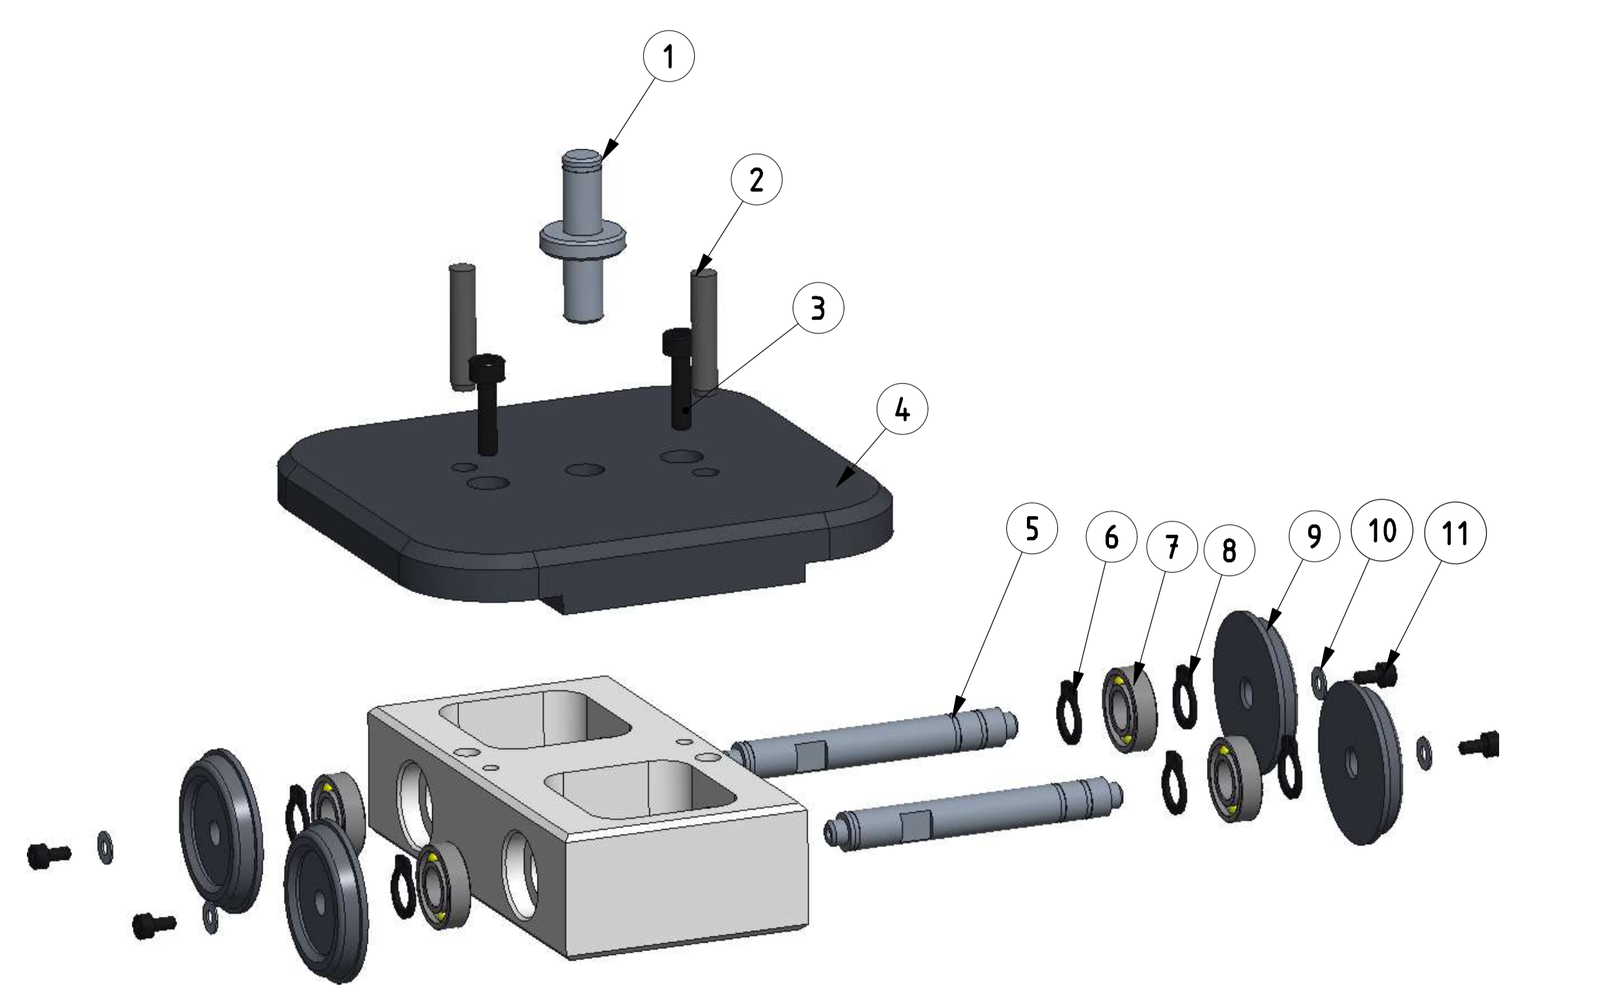
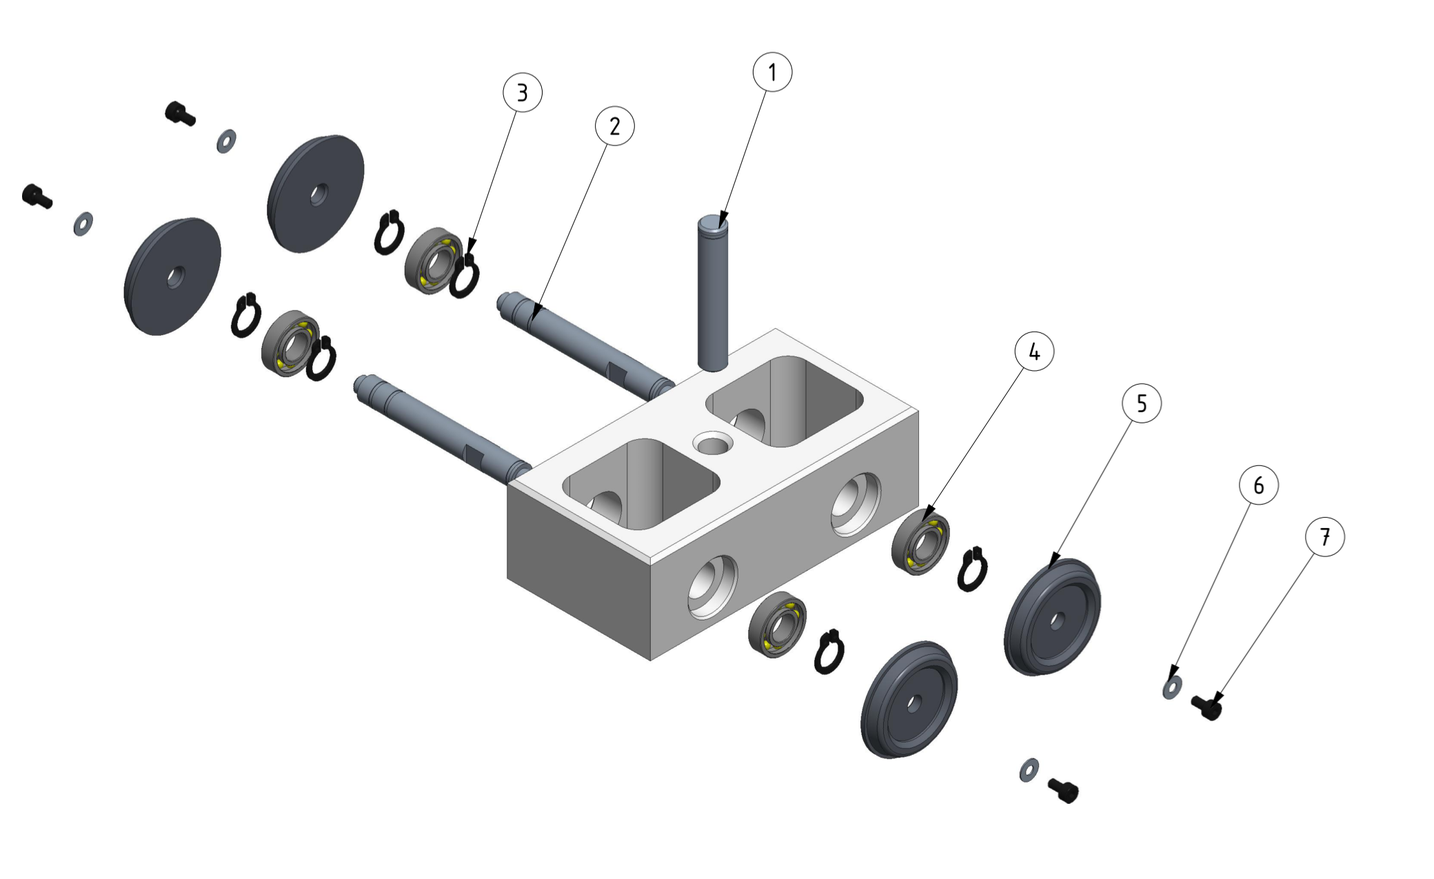
Kapitel Fahrwerk erstellt

diff --git a/docu/sections/03_Loesungskonzepte/Fahrwerk.tex b/docu/sections/03_Loesungskonzepte/Fahrwerk.tex
@@ -1,9 +1,15 @@
 \documentclass[../../main.tex]{subfiles}
 \graphicspath{{images/Maschinentechnik/}{../../images/Maschinentechnik/}}
 
+\lstset{basicstyle=\small,
+      showstringspaces=false,
+      commentstyle=\color{black},
+      keywordstyle=\color{blue}
+    }
+
 \begin{document}
     \subsection{Konzeptbeschreibung}
-    Die Lokomotive in Abbildung \ref{fig:bg_lokomotive} in die drei Unterbaugruppen Antriebswagen (Position 1), Führungswagen (Position 2) und Ladungsträger (Position 3) unterteilt. Der Antriebswagen enthält alle notwendigen Komponenten, um die Lokomotive zu beschleunigen und wieder abzubremsen. Zusätzlich sind die Kameras für die Spur- und Signalerkennung an ihm angebracht. Der Führungswagen hingegen dient lediglich als Abstützung für den Ladungsträger. Er bietet aber zusätzlichen Bauraum für elektronische Komponenten.\\
+    Die Lokomotive in Abbildung \ref{fig:bg_lokomotive} (siehe Tabelle \ref{tab:bg_lokomotive}) in die drei Unterbaugruppen Antriebswagen (Position 1), Führungswagen (Position 2) und Ladungsträger (Position 3) unterteilt. Der Antriebswagen enthält alle notwendigen Komponenten, um die Lokomotive zu beschleunigen und wieder abzubremsen. Zusätzlich sind die Kameras für die Spur- und Signalerkennung an ihm angebracht. Der Führungswagen hingegen dient lediglich als Abstützung für den Ladungsträger. Er bietet aber zusätzlichen Bauraum für elektronische Komponenten.\\
 
     \begin{figure}[H] %Lokomotive mit Positionsnummern
         \centering
@@ -23,13 +29,15 @@
         \hline
         Position 3          & Ladungsträger\\
         \hline
+        Position 4          & Transportgut (Würfel)\\
+        \hline
         \end{tabular}
         
         \caption{Positionsnummern der Lokomotive mit Bezeichnungen}
-        \label{tab:com_tiny_pi}
-        \end{table}
-    
-    In der Querschnittsdarstellung in Abbildung \ref{fig:schnitt_lokomotive} die Lagerungen zwischen dem Ladungsträger und dem Antriebswagen beziehungsweise dem Führungswagen sowie die Antriebseinheit besser sichtbar. Der Aufbau der Unterbaugruppen wird in den nächsten Abschnitten vorgestellt.
+        \label{tab:bg_lokomotive}
+    \end{table}
+
+    In der Querschnittsdarstellung in Abbildung \ref{fig:schnitt_lokomotive} ist die Lagerungen zwischen dem Ladungsträger und dem Antriebswagen beziehungsweise dem Führungswagen besser sichtbar. Ebenfalls sieht man gut, wie der Antriebswagen mit Zahnriemen angetrieben wird. Der Aufbau der Unterbaugruppen wird in den nächsten Abschnitten vorgestellt.\\
    
     \begin{figure}[H] %Lokomotive im Schnitt
         \centering
@@ -40,14 +48,14 @@
     \newpage
 
     \subsubsection{Antriebswagen}
-    Der Grundaufbau der beiden Wägen ist derselbe, mit dem Unterschied, dass der Antriebswagen durch einen Motor angetrieben wird. Der Grundwagen beziehungsweise der Führungswagen in Abbildung besteht aus einem Rahmen und einer Platte, welche miteinander verstiftet (Position 2) und verschraubt (Position 3) sind. Im Rahmen werden die beiden Achsen jeweils mit einem Los- und einem Festlager lagert. Die Achsen sind an beiden Enden mit einem Gewinde versehen, damit die Räder bei Bedarf schnell und einfach gewechselt werden können, ohne dass der ganze Wagen auseinander genommen werden muss. Die Anfräsfläche auf der Welle (Position 5) dient für das bessere Befestigen der Räder durch einen Gabelschlüssel.
+    Der Grundaufbau der beiden Wägen ist derselbe, mit dem Unterschied, dass der Antriebswagen durch einen Motor angetrieben wird. Der Grundwagen beziehungsweise der Führungswagen in Abbildung \ref{fig:expl_fuehrungswagen} (siehe Tabelle \ref{tab:expl_fuehrungswagen}) besteht aus einem Rahmen und einer Platte, welche miteinander verstiftet (Position 2) und verschraubt (Position 3) sind. Im Rahmen werden die beiden Achsen jeweils mit einem Los- (Position 7) und einem Festlager (Position 8) lagert und mit Sicherungsringen (Position 6) gesichert. Die Achsen sind an beiden Enden mit einem Gewinde versehen, damit die Räder bei Bedarf schnell und einfach gewechselt werden können, ohne dass der ganze Wagen auseinander genommen werden muss. Die Anfräsfläche auf der Welle (Position 5) dient für das bessere Befestigen der Räder mit einen Gabelschlüssel.\\
 
      \begin{figure}[H] %Führungswagen
         \centering
-        \includegraphics[width=0.9\textwidth]{Fuehrungswagen.png}
+        \includegraphics[width=0.9\textwidth]{fuehrungswagen.png}
         \caption{Explosionsdarstellung Führungswagen}
         \label{fig:expl_fuehrungswagen}
-    \end{figure}   
+    \end{figure}
 
     \begin{table}[H] \centering
         \begin{tabular}{|l|l|}
@@ -56,39 +64,34 @@
         \hline
         Position 1          & Drehachse Wagen-Ladungsträger\\
          \hline
-        Position 2          & Stife für das Verstiften von Rahmen und Platte\\
+        Position 2          & Achsen mit Gewinden an beiden Enden und Anfräsfläche für Gabelschlüssel\\
+         \hline
+        Position 3          & Rillenkugellager (Loslager)\\
         \hline
-        Position 3          & Zylinderschrauben für das Befestigen der Platte am Rahmen\\
+        Position 4          & Eingepresstes Rillenkugellager (Festlager)\\
+        \hline       
+        Position 5          & Sicherungsring für Rillenkugellager\\
         \hline
-        Position 4          & Platte\\
+        Position 6          & Rad\\
         \hline
-        Position 5          & Achsen mit Gewinden an beiden Enden und Anfräsfläche für Gabelschlüssel\\
+        Position 7         & Unterlagscheibe\\
         \hline
-        Position 6          & Sicherungsring für Rillenkugellager\\
-        \hline
-        Position 7          & Rillenkugellager (Loslager)\\
-        \hline
-        Position 8          & Eingepresstes Rillenkugellager (Festlager)\\
-        \hline
-        Position 9          & Rad\\
-        \hline
-        Position 10         & Unterlagscheibe\\
-        \hline
-        Position 11         & Zylinderschraube\\
+        Position 8         & Zylinderschraube\\
         \hline
         \end{tabular}
         
-        \caption{Kommunikation Frames: Tiny $\Rightarrow$ Pi}
-        \label{tab:com_tiny_pi}
+        \caption{Explosionsdarstellung Führungswagen}
+        \label{tab:expl_fuehrungswagen}
         \end{table}
     \newpage
-    Der Antriebswagen in Abbildung ist grundsätzlich gleich aufgebaut wie der Führungswagen, jedoch ist der Rahmen aufgrund des Riemenantriebs etwas anders Aufgebaut. Die Platte, welche auf dem Rahmen angebracht ist, wurde für die Kameras für die Signal- und Spurerkennung grösser dimensioniert. Die Kamera für die Spurerkennung wird einstellbar befestigt, damit bei der Testphase des Prototyps Optimierungen vorgenommen werden können. Die Stromübetrag von der Shiene auf die Lokomotive erfolgt über vier Schleifkontakte. Davon sind jeweils zwei ein einem Wagen zwischen den Rädern angebracht.
+    
+    Der Antriebswagen in Abbildung \ref{fig:antriebswagen} (siehe Tabelle \ref{tab:expl_antriebswagen}) wie bereits erwähnt grundsätzlich gleich aufgebaut wie der Führungswagen, jedoch ist der Rahmen aufgrund des Riemenantriebs H-Förmig aufgebaut. Das Ziel dieser Konstruktion ist es hauptsächlich den Riemen, falls nötig, schnell wechselbar zu montieren. Durch die H-Form können die Achsen und die Räder für die Riemenmontage am Rahmen montiert gelassen werden. Die Platte, welche am Rahmen angebracht ist, ist für die Kameras für die Signal- und Spurerkennung grösser dimensioniert. Die Kamera für die Spurerkennung wird einstellbar befestigt, damit bei der Testphase des Prototyps Optimierungen des Winkels vorgenommen werden können. Der Stromübetrag von der Schiene auf die Lokomotive erfolgt über vier Schleifkontakte, welche als Einkaufsteile von Lieferanten bezogen werden. Davon sind pro Wagen zwei und jeweils zwischen den Rädern angebracht.\\
 
     \begin{figure}[H] %Antriebswagen
         \centering
-        \includegraphics[width=0.9\textwidth]{Fuehrungswagen.png}
+        \includegraphics[width=0.9\textwidth]{antriebswagen.png}
         \caption{Baugruppe Antriebswagen}
-        \label{fig:Antriebswagen}
+        \label{fig:antriebswagen}
     \end{figure} 
 
     \begin{table}[H] \centering
@@ -100,18 +103,22 @@
          \hline
         Position 2          & Antriebseinheit\\
         \hline
+        Position 3          & Kameras\\
+        \hline
     \end{tabular}
     
-    \caption{Kommunikation Frames: Tiny $\Rightarrow$ Pi}
-    \label{tab:com_tiny_pi}
+    \caption{Explosionsdarstellung Antriebswagen}
+    \label{tab:expl_antriebswagen}
     \end{table}
 
-    Antriebseinheit in Abbildung besteht aus einem Grundgestell, an welchem die Lagerung der Antriebswelle und der Motor angebracht sind. Das Drehmoment vom Motor wird über ein geradverzahntes Zahnrad mit einem Übersetzungsverhältnis von 1:2 auf eine Achse übertragen. Von dieser wird es über einen Riemen auf die beiden Radachsen und somit auf die Räder weitergeleitet. Durch die Berechnung der maximalen Geschwindigkeit wird entsprechend der Motor ausgelegt, was im nächsten Abschnitt genauer beschrieben wird.
+    \newpage
+
+    Die Antriebseinheit in Abbildung \ref{fig:antriebseinheit} (siehe Tabelle \ref{tab:pos_antriebseinheit}) besteht aus einem Grundgestell, an welchem die Lagerung der Antriebswelle und der Motor angebracht sind. Das Drehmoment vom Motor wird über ein geradverzahntes Zahnrad mit einem Übersetzungsverhältnis von 1:2 auf eine Achse übertragen. Von dieser wird es über einen Riemen auf die beiden Radachsen und somit auf die Räder weitergeleitet. Durch die Berechnung der maximalen Geschwindigkeit wird entsprechend der Motor ausgelegt, was im nächsten Abschnitt genauer beschrieben wird.\\
 
     \begin{figure}[H] %Antriebseinheit
         \centering
-        \includegraphics[width=0.9\textwidth]{Fuehrungswagen.png}
-        \caption{Explosionsdarstellung Führungswagen}
+        \includegraphics[width=0.9\textwidth]{antriebseinheit.png}
+        \caption{Explosionsdarstellung Antriebseinheit}
         \label{fig:antriebseinheit}
     \end{figure} 
 
@@ -120,39 +127,44 @@
         \hline
         \textbf{Position} & \textbf{Bezeichnung}\\
         \hline
-        Position 1          & Drehachse Wagen-Ladungsträger\\
+        Position 1          & Motor\\
          \hline
-        Position 2          & Stife für das Verstiften von Rahmen und Platte\\
+        Position 2          & Spannsatz\\
         \hline
-        Position 3          & Zylinderschrauben für das Befestigen der Platte am Rahmen\\
+        Position 3          & Zahnriemenrad\\
         \hline
-        Position 4          & Platte\\
+        Position 4          & Rillenkugellager (Loslager)\\
         \hline
-        Position 5          & Achsen mit Gewinden an beiden Enden und Anfräsfläche für Gabelschlüssel\\
+        Position 5          & Rillenkugellager (Feslager)\\
         \hline
-        Position 6          & Sicherungsring für Rillenkugellager\\
+        Position 6          & Sicherungsring\\
         \hline
-        Position 7          & Rillenkugellager (Loslager)\\
+        Position 7          & Sicherungsplatte\\
         \hline
-        Position 8          & Eingepresstes Rillenkugellager (Festlager)\\
+        Position 8          & Zahnräder 1:2 Übersetzung\\
         \hline
-        Position 9          & Rad\\
+        Position 9          & Zahnriemen\\
         \hline
-        Position 10         & Unterlagscheibe\\
+        Position 10         & Gewindestifte für das Einstellen der Riemenspannung\\
         \hline
-        Position 11         & Zylinderschraube\\
+        Position 11         & Zylinderschrauben für Befestigung von Grundgestell\\
+        \hline
+        Position 12         & Zylinderschrauben für Befestigung von Sicherungsplate\\
+        \hline
+        Position 13         & Grundgestell\\
+        \hline
+        Position 14         & Drehachse\\
         \hline
         \end{tabular}
         
-        \caption{Kommunikation Frames: Tiny $\Rightarrow$ Pi}
-        \label{tab:com_tiny_pi}
+        \caption{Positionen Antriebseinheit}
+        \label{tab:pos_antriebseinheit}
         \end{table}
+    
     \newpage
 
     \textbf{Beschleunigungsberechnung}\\
-    Wie schnell die Lokomotive beschleunigen kann hängt von der Reibung zwischen Rad und schiene und der Masse des Zuges ab. Die Grunddefinition der Beschleunigung ist der Quotient von Kraft und Masse. Die Reibung ist durch den Reibkoeffizienten bestimmt, welcher sich je nach Materialpaarung 
-
-    Die Kraft für das aus dem Stillstand in Fahrt zu bringende ist am grösste. Anschliessend wird die Reibung kleiner (Da rollreibung).
+    Wie schnell die Lokomotive beschleunigen kann hängt von der Reibung zwischen Rad und schiene und der Masse des Zuges ab. Die Grunddefinition der Beschleunigung ist der Quotient von Kraft und Masse. Die Reibung ist durch den Reibkoeffizienten bestimmt, welcher sich von Materialpaarung zu Materialpaarung unterscheidet. Zusätzlich ist der Reibkoeffizient von der Oberflächenbeschaffenheit, der Rauigkeit, abhängig. Je die Rauigkeit, desto mehr Reibung entsteht und desto schneller kann beschleunigt werde. Die Kraft, um das Fahrzeug aus dem Stillstand zu beschleunigen ist grösser, als wenn es bei einer gewissen Geschwindigkeit weiter beschleunigt wird. Dies ist auf Grund des Trägheitsmomentes des Zuges. \\
 
     \begin{table}[H] \centering
         \begin{tabular}{|l|l|l|}
@@ -160,20 +172,20 @@
         \textbf{Material Schiene} & \textbf{Material Rad} & \textbf{Reibungskoeffizient}\\
         \hline
         Stahl                                & Stahl        & 0.02\\
-         \hline
+        \hline
         Stahl                                & Holz         & 0.02\\
         \hline
         Stahl                                & Kunststoff   & 0.02\\
         \hline
         Stahl                                & Gummi        & 0.02\\
         \hline
-        \end{tabular}\\
+        \end{tabular}
         
         \caption{Reibungskoeffizienten verschiedener Materialpaarungen}
         \label{tab:com_tiny_pi}
         \end{table}
     
-    Um die maximale Beschleunigung zu berechnen, wird das Gesamtgewicht der Lokomotive auf die vier Räder aufgeteilt. In der Tabelle \ref{tab:groessen_beschleunigung} sind die gegeben Grössen für die nachfolgenden Berechnungen aufgelistet.
+    Um die maximale Beschleunigung zu berechnen, wird das Gesamtgewicht der Lokomotive auf die vier Räder aufgeteilt. In der Tabelle \ref{tab:groessen_beschleunigung} sind die gegeben Grössen für die nachfolgenden Berechnungen aufgelistet.\\
 
     \begin{table}[H] \centering
         \begin{tabular}{|l|l|}
@@ -190,18 +202,27 @@
         \label{tab:groessen_beschleunigung}
         \end{table}   
 
-    F\textsubscript{Rad}=\(\frac{F\textsubscript{G}}{8}\)=\(\frac{m*g=3kg*9.81m/s^2}{8}\)=0.375\\
+    F\textsubscript{Rad}=\(\frac{F\textsubscript{G}}{8}\)=\(\frac{m*g=3kg*9.81m/s^2}{8}\)=0.375N\\
 
     F\textsubscript{Reibung}=\(F\textsubscript{Rad}*k\)=\(0.375N*0.3=29.4N\)=0.1125N\\
 
     M\textsubscript{Rad}=\(F\textsubscript{Rad}*2*D\textsubscript{Rad}\)=\(\frac{m*g=3kg*9.81m/s^2}{8}\)=0.375Nm\\
 
-    a\textsubscript{max}=\(\frac{F\textsubscript{Reibung}}{\frac{F\textsubscript{Rad}}{g}}\)=\(\frac{F\textsubscript{Reibung}}{\frac{F\textsubscript{Rad}}{g}}\)\\
+    a\textsubscript{max}=\(\frac{F\textsubscript{Reibung}}{\frac{F\textsubscript{Rad}}{g}}\)=\(\frac{0.375Nm}{1}\)\\
 
     \textbf{Geschwindigkeitsberechnung}\\
-    Die Fahrgeschwindigkeit der Lokomotive wird durch drei Faktoren bestimmt. Einerseits muss die maximale Geschwindigkeit der Anforderungsliste eingehalten werden und andererseits wird die Geschwindigkeit in der Kurvenfahrt durch den Schwerpunkt des Fahrzeuges und durch die maximale Haftreibkraft zwischen Schiene und Rad eingeschränkt.
+    Die Fahrgeschwindigkeit der Lokomotive wird durch zwei Faktoren bestimmt. Einerseits muss die maximale Geschwindigkeit der Anforderungsliste eingehalten werden und andererseits wird die Geschwindigkeit in der Kurvenfahrt durch den Schwerpunkt des Fahrzeuges eingeschränkt. Nachdem die Lokomotive auf die Fahrtgeschwindigkeit beschleungigt wurde, ist die Rollreibung das einzige, was der Motor mit seiner Leistung kompensieren muss.\\
 
-    In der Anforderungsliste wurde eine minimale Geschwindigkeit von 0.5 Meter pro Sekunde festgelegt. Der begrenzende Faktor der Geschwindigkeit in der Kurve ist der Schwerpunkt der Lokomotive. Je tiefer dieser ist, umso schneller kann die Kurve abgefahren werden. Über die Zentripedalkraft und die Gewichtskraft der Lokomotive wird die Momentengleichung aufgestellt. 
+    In der Anforderungsliste wurde eine minimale Geschwindigkeit von 0.5 Meter pro Sekunde festgelegt. Der begrenzende Faktor der Geschwindigkeit in der Kurve ist der Schwerpunkt der Lokomotive. Je tiefer dieser ist, umso schneller kann die Kurve abgefahren werden. Über die Zentripedalkraft und die Gewichtskraft der Lokomotive wird die Momentengleichung aufgestellt und Anhand der gegebeen Werten in Tabelle \ref{tab:geschwindigkeitsberechnung} wird die maximal erreichbare Geschwindigkeit in der Kurve, ohne aus den Gleisen zu kippen, berechnet.\\
+    
+    \begin{figure}[H] %Bild von Zug (Ansicht von vorne) mit Schwerpunkt und Positionsnummern
+        \centering
+        \includegraphics[width=0.9\textwidth]{fuehrungswagen.png}
+        \caption{Schwerpunkt des Zuges in der Seitenansicht}
+        \label{fig:schwerpunktn}
+    \end{figure}
+    
+    Das Kippmoment wird durch den Aufbau der Lokomotive minimiert. Da der Schwerpunkt durch die beiden Wagen mehr in das Zentrum des Kreismittelpunktes rückt.\\
 
     \begin{table}[H] \centering
         \begin{tabular}{|l|l|}
@@ -216,48 +237,33 @@
         \hline
         Schwerpunkt in y-Achse (maximaler Wert) [y]         & Meter\\
         \hline
-        \end{tabular}\\
+        \end{tabular}
         
-        \caption{Kommunikation Frames: Tiny $\Rightarrow$ Pi}
-        \label{tab:com_tiny_pi}
+        \caption{Grössen für die Geschwindigkeitsberechnung}
+        \label{tab:geschwindigkeitsberechnung}
         \end{table}
 
-        Die Zentripedalkraft und die Gewichtskraft sind wie folgt definiert:\\
+    Die Gewichts- und Zentripedalkraft, welche das Gleichungssystem bilden, sind wie folgt definiert:\\
     
     F\textsubscript{G}=\(m*g=3kg*9.81m/s^2=29.4N\)\\
 
     F\textsubscript{max z}=\(\frac{m*v^2}{r}\)=\(\frac{m*v^2}{r}\)\\
     
-    Da das Drehmoment eine vektorielle Grösse ist, müssen die beiden entstehenden Momente am Drehpunkt "P" auf am Gleis zusammen Null ergeben beziehungsweise gleich gross sein, damit es "statisch" bestimmt ist. Die Berechnungen sind auf den kleinsten Kurvenradius ausgelegt, da dort die grössere Zentripedalkraft entsteht.\\
+    Da das Drehmoment eine vektorielle Grösse ist, müssen die beiden entstehenden Momente am Drehpunkt "P" am Gleis zusammen Null ergeben. Oder anderst gesagt müssen die beiden Momente gleich gross sein, damit das System "statisch" bestimmt ist. Die Berechnungen sind auf den kleinsten Kurvenradius ausgelegt, da dort die grössere Zentripedalkraft entsteht. Nun werden die ob\\
 
     F\textsubscript{max z}=\(\frac{F\textsubscript{G}*x+F\textsubscript{A}*a}{y}\)=\(\frac{F\textsubscript{G}*x+F\textsubscript{A}*a}{y}\)\\
 
-    %Bild von Zug (Ansicht von vorne) mit Schwerpunkt und Positionsnummern
-    
-    Das Kippmoment wird durch den Aufbau der Lokomotive minimiert. Da der Schwerpunkt durch die beiden Wagen mehr in das Zentrum des Kreismittelpunktes rückt.
-    
-    Um möglichst viel Drehmoment auf das Rad zu übertragen, muss die Haftreibung maximiert werden, da die Beschleunigung davon abhängt. Die Reibungskoeffizienten wurden experimentell ermittelt. Dazu wurden verscheidene Materialen auf das Gleis gelegt und mit einer Federwage die Reibungskraft ermittelt. Der Versuch wurde mit den Materialien Kunstoff, Holz, Stahl und Gummi ausgeführt.
-
-    \textbf{Motorauslegung}\\
-    %Text von Schöni
-
     \subsubsection{Ladungsträger}
-    Der Ladungsträger ist das Verbindungselement von Antriebswagen und Führungswagen. Er wird an beiden Enden drehbar mit Radialkugellager gelagert.
+    Der Ladungsträger ist das Verbindungselement von Antriebswagen und Führungswagen. Er wird an beiden Enden drehbar mit je einem Radial- und Axialkugelager gelagert. Der Träger besteht aus drei Teilen (siehe Abbidlung \ref{fig:expl_ladungstraeger}). Der Hauptgrund ist die einfachere, materialsparende sowie kostengünstigere Herstellung. Andererseits muss der Träger \\
 
-    Der Träger besteht aus drei Teilen (siehe Abbidlung). Der Hauptgrund ist die einfachere und kostengünstigere Herstellung.
-
-    %Berechnung Kugellagerkräfte
+    %Berechnung Kugellagerkräfte Radial wie auch Axial
 
     \begin{figure}[H] %Ladungsträger
         \centering
-        \includegraphics[width=0.9\textwidth]{Fuehrungswagen.png}
-        \caption{Explosionsdarstellung Führungswagen}
-        \label{fig:expl_fuehrungswagen}
-<<<<<<< HEAD
-    \end{figure}\\
-=======
+        \includegraphics[width=0.9\textwidth]{ladungstraeger.png}
+        \caption{Explosionsdarstellung Ladungsträger}
+        \label{fig:expl_ladungstraeger}
     \end{figure}
->>>>>>> feature/Funktionsbeschrieb_fortfahren
 
     \begin{table}[H] \centering
         \begin{tabular}{|l|l|}
@@ -276,17 +282,21 @@
         \hline
         \end{tabular}
         
-        \caption{Kommunikation Frames: Tiny $\Rightarrow$ Pi}
-        \label{tab:com_tiny_pi}
+        \caption{Positionen des Ladungsträgers}
+        \label{tab:pos_ladungstraeger}
         \end{table}
 
     \textbf{Würfeltransport}\\
-    Um den Würfel rechts neben der Gleisstrecke aufzunehmen wird eine steuerungstechnisch sowie mechanisch einfache Lösung angestrebt. Wie aus dem morphologischen Kasten (Anhang) und der Nutzwertanalyse hervor geht, wird die Würfelaufnahme mittels eines Drahts und einem Stab durchgeführt. Damit nur ein Aktor angesteuert werden muss wird von dem Prinzip einer Kurvenscheibe Gebrauch gemacht.  Die gesamte Vorrichtung besteht grundsätzlich aus drei Elementen. Einem Kran zur Lastaufnahme, einem Antriebsstrang und der Kurvenscheibe.
+    %Text von Schöni
 
-    Der Kran besteht aus drei Drehteilen, welche mit einer Pressverbindung zusammengefügt wurden. Der Grundkörper des Krans wird auf Grund seiner optimalen Gleiteigenschaften und der geringen Dichte aus Teflon gefertigt. Der kleinere Stahlstift ist für die Drehmomentübertragung zuständig. Der Grössere der beiden Stahlstifte ist der eigentliche Ausleger. An dessen ende wird ein Draht aus Federstahl geformt und angehängt. Dieser Draht soll als Haken zur Lastaufnahme dienen. Weiter ist der Ausleger in beide Richtungen von der Drehachse ausgedehnt, da die Kurvenscheibe zwei Laufflächen hat, um für einen stabilen Hub zu sorgen. Der ganze Aufbau wird mittels einer Spielpassung in einer Bohrung mit zwei längsnuten in einem 3D gedruckten, modifizierten Zahnrad gelagert.
+    \textbf{Statische Auslegung}\\    
+    Die Lagerkräfte (siehe Abbildung \ref{fig:lagerkraefte_ladungstraeger}) in den beiden Wägen werden durch Statikberechnungen festgelgt. Mit den Berechneten Werten werden die Wälzlager definiert.\\
 
-    Der Antrieb besteht aus einem Motor, dessen Aufhängung und zwei Zahnrädern. Der Motor ist ein bürstenbehafteter Motor mit Encoder und Getriebe vornedrauf. Mit dieser Variante und der Übersetzung von Getriebe und den Zahnrädern kann von der Steuerung aus genau definiert werden, wie viele Umdrehungen der Motor benötigt, um mit dem Kranausleger eine Viertelumdrehung zu fahren. Das eine Zahnrad ist Standard und von Mädler eingekauft. Das zweite Zahnrad jedoch wurde nur als STEP von Mädler heruntergeladen und anschliessend im CAD bearbeitet. Die Bohrung und der Flansch in der Mitte wurden verlängert und mit zwei Längsnuten versehen. Die Bohrung gilt als Axialführung und die Nuten als Drehmomentübertragung.
-
-    Die Kurvenscheibe ist ebenfalls ein 3D-Druckteil. Der Grundkörper ist ein Rohr mit dem Aussendurchmesser 80 mm. An diesem wurden zwei Bahnführungen mittels Freiformflächen für den Kranausleger erzeugt. Die Steigung dieser Flächen ist variabel. Zu Beginn ist die Steigung gering und wird dann exponentiell grösser. Dies wurde aus dem einen Grund gewählt, damit das Anfahren für den Motor nicht zu streng ist. Nachdem die Drehbewegung und der vertikale Hub gemacht wurden, stoppt der Motor und der Kranausleger sollte durch die Schwerkraft heruntergezogen werden. Der Würfel wird nun in der für ihn vorgesehenen Aufnahme auf dem Zug platziert.
+    \begin{figure}[H] %Kräfte im System
+        \centering
+        \includegraphics[width=0.9\textwidth]{fuehrungswagen.png}
+        \caption{Explosionsdarstellung Ladungsträger}
+        \label{fig:lagerkraefte_ladungstraeger}
+    \end{figure} 
 
 \end{document}
